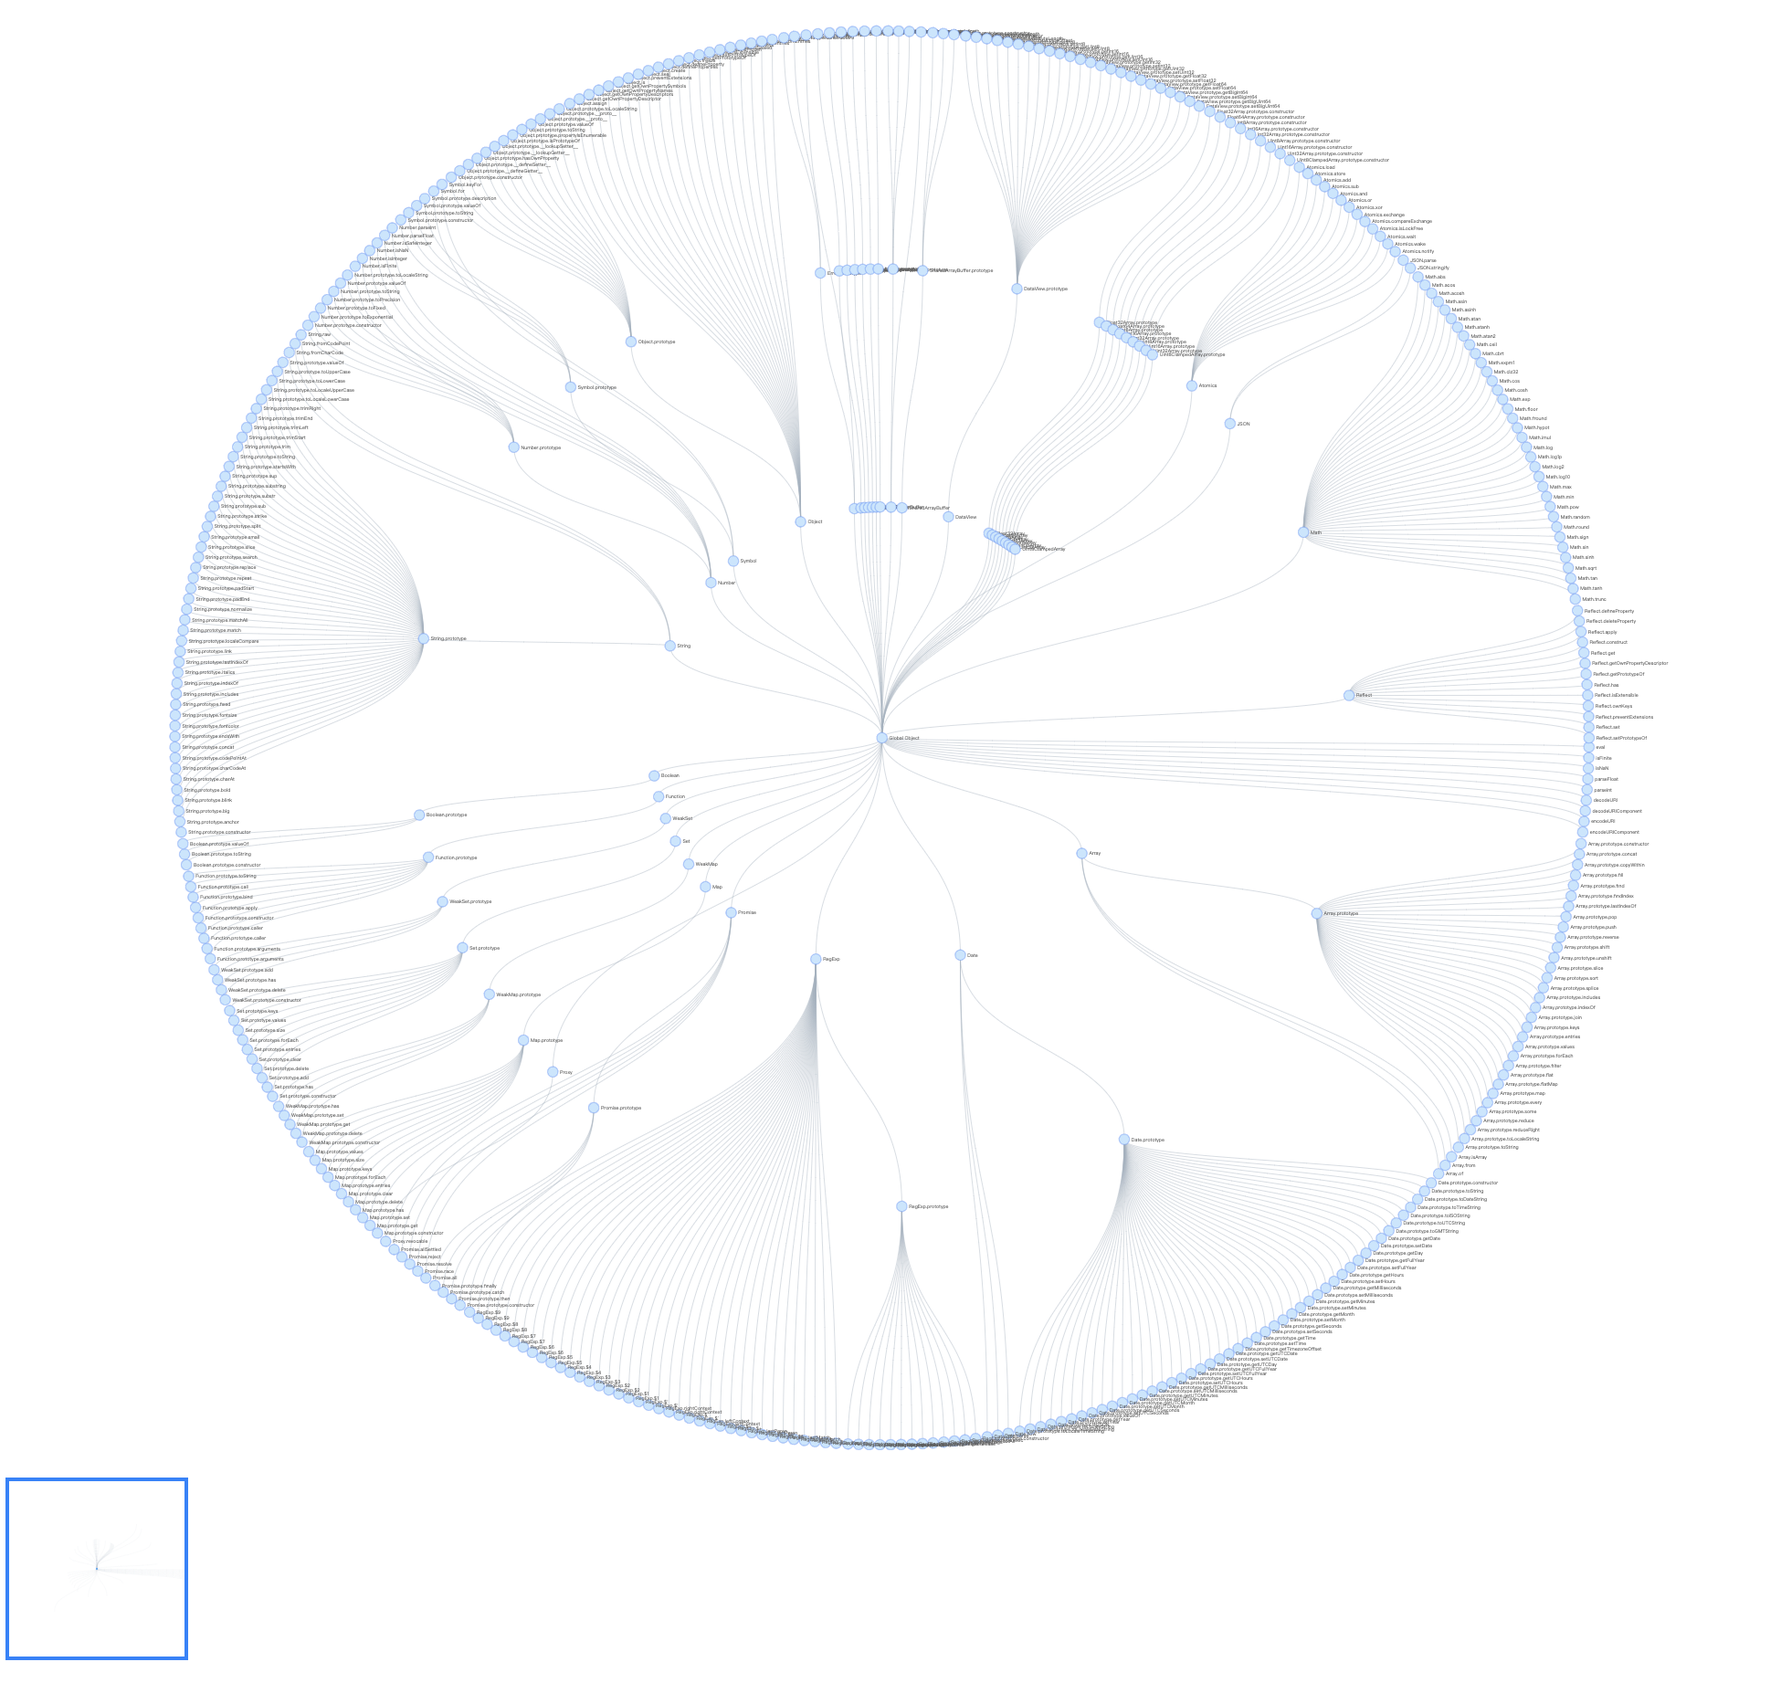
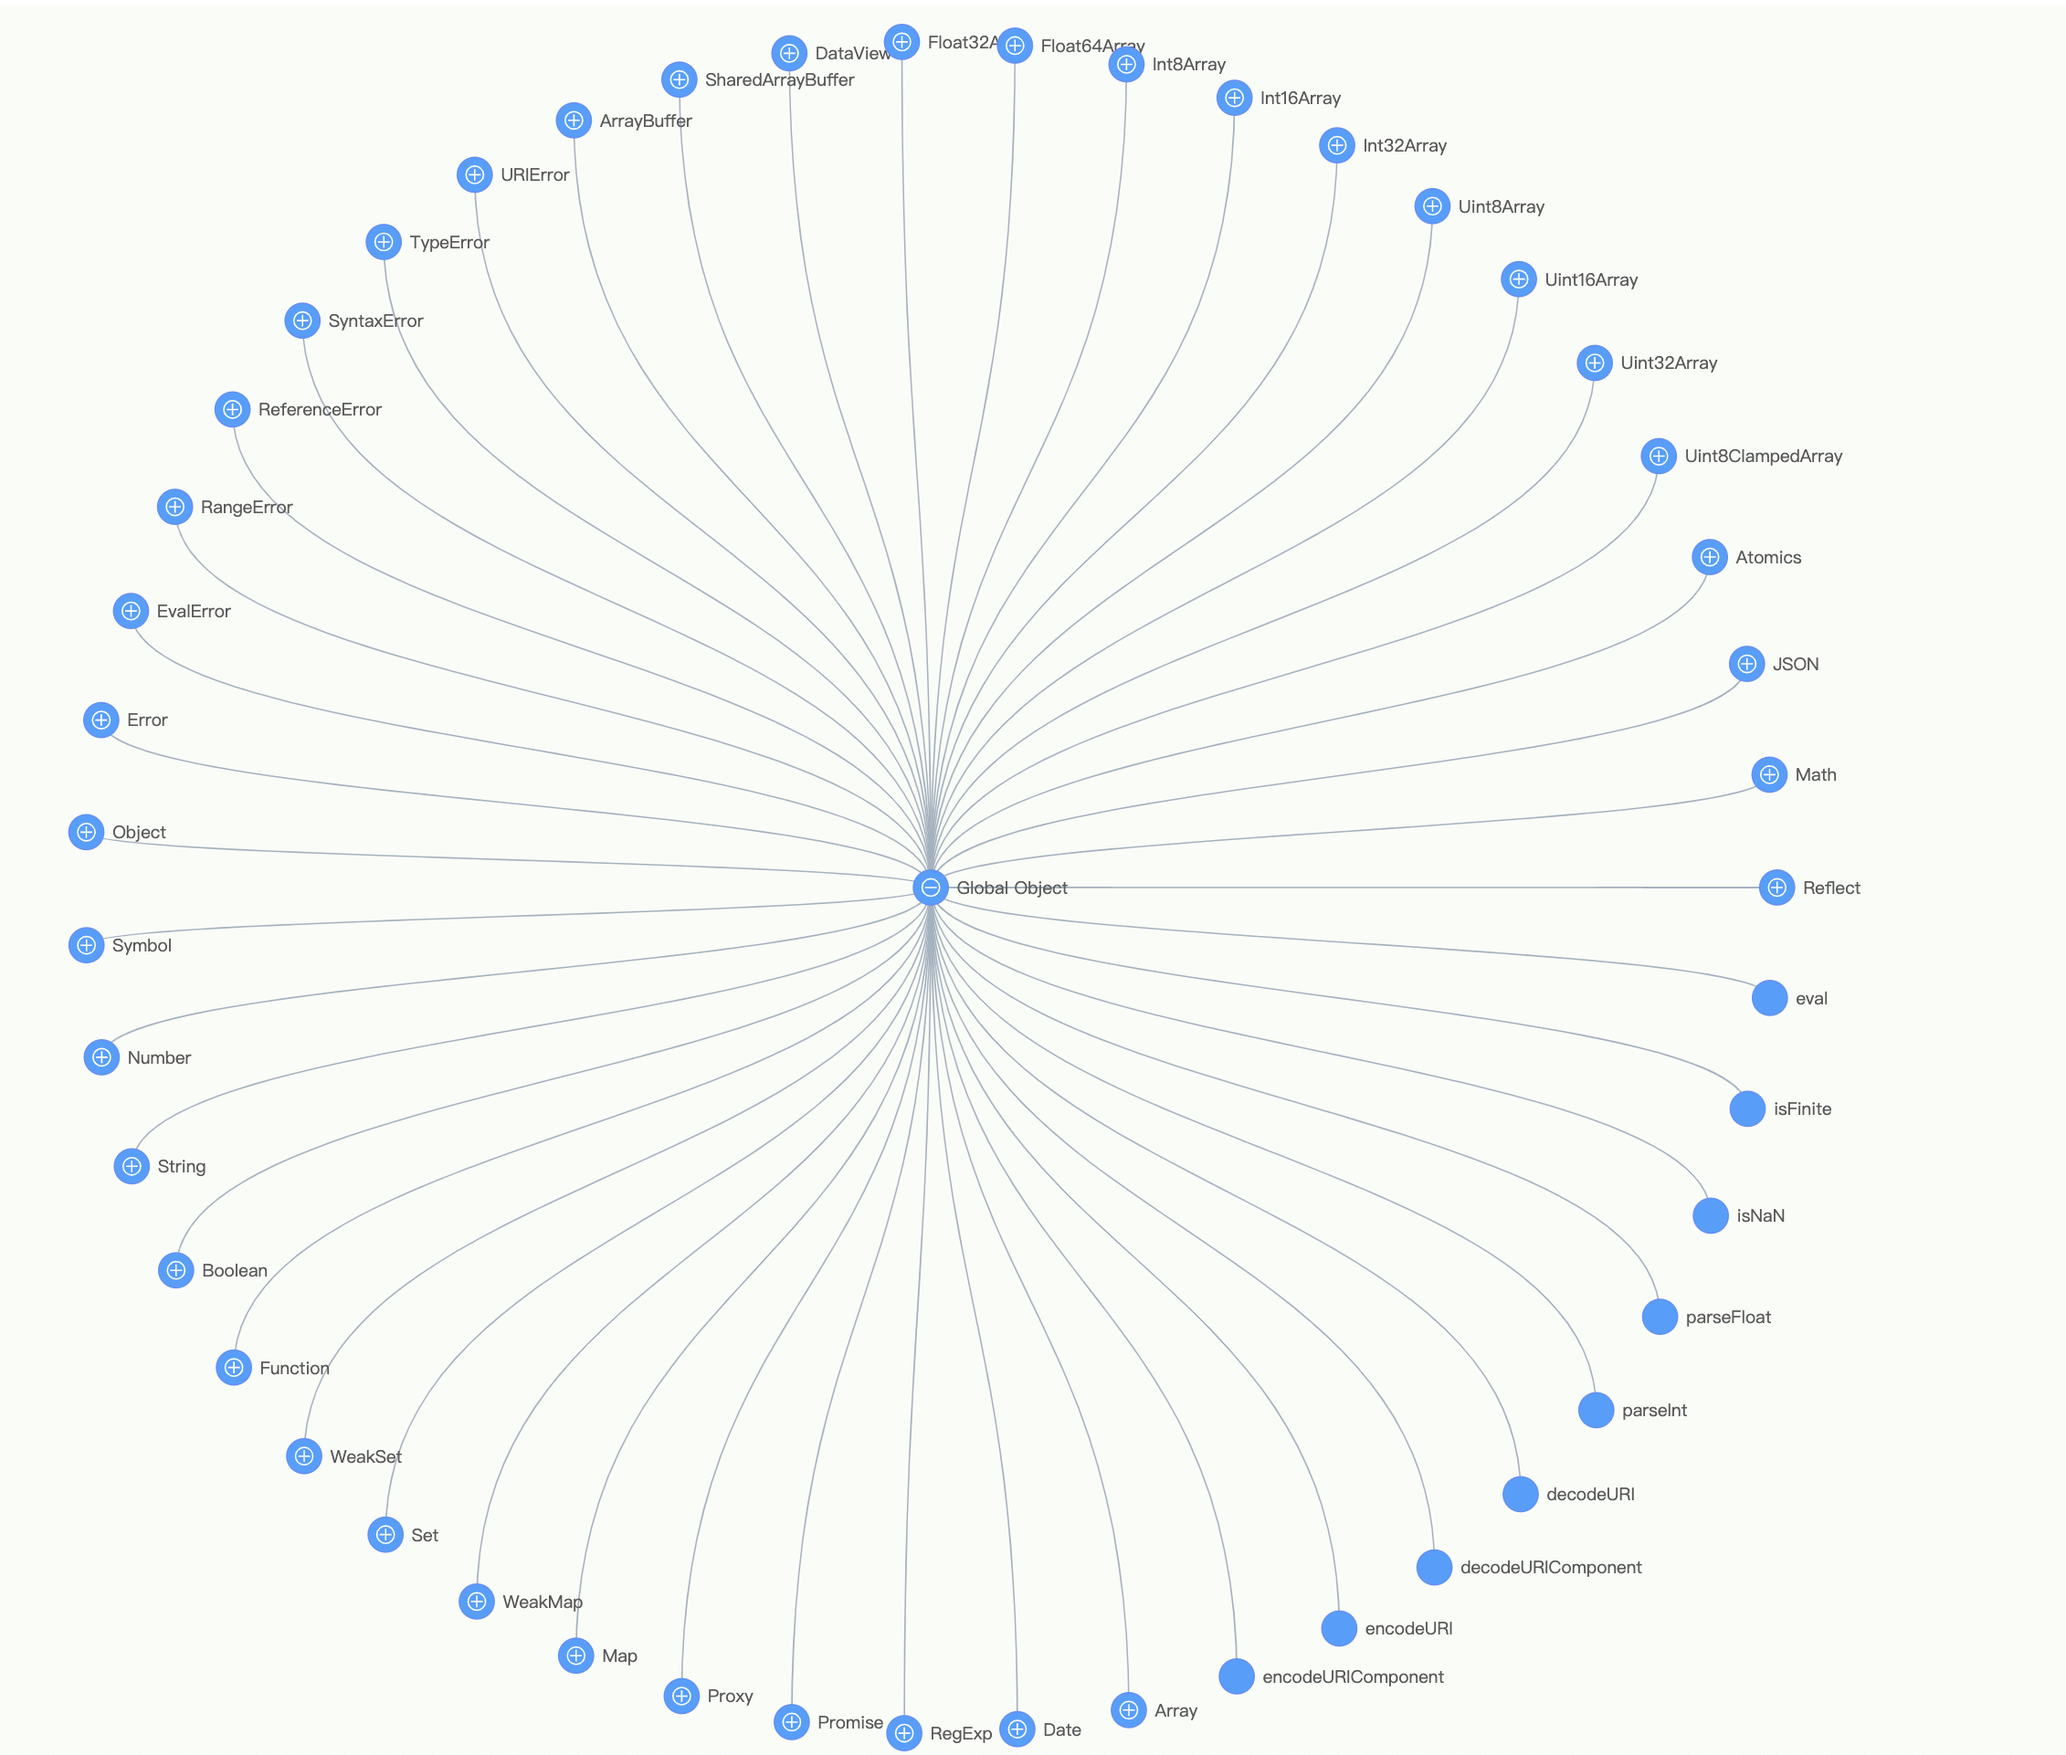
week05 01 finish

diff --git a/week05/realm.v1.html b/week05/realm.v1.html
@@ -1,11 +1,11 @@
 <!DOCTYPE html>
-<html lang="en">
+<html lang="en"  style="width: 100%; height: 100%;">
   <head>
     <meta charset="UTF-8" />
     <title>realm辐射树</title>
   </head>
-  <body>
-    <div id="mountNode"></div>
+  <body  style="width: 100%; height: 100%;">
+    <div id="container" style="width: 100%; height: 100%; background-color: rgba(240, 249, 235, 0.4);"></div>
     <!-- 引入 G6 -->
     <script src="https://gw.alipayobjects.com/os/antv/pkg/_antv.g6-3.3.1/dist/g6.min.js"></script>
 
@@ -90,21 +90,21 @@
               (property.value != null && typeof property.value === 'object' || typeof property.value === 'function')) {
               arr.push({
                 id: path.concat(p),
-                label: path.concat(p),
+                label: path.concat(p).join('.'),
                 children: _tree(path.concat(p), property.value)
               })
             }
             if(property.get) {
               arr.push({
                 id: path.concat(p),
-                label: path.concat(p),
+                label: path.concat(p).join('.'),
                 children: _tree(path.concat(p), property.get)
               })
             }
             if(property.set) {
               arr.push({
                 id: path.concat(p),
-                label: path.concat(p),
+                label: path.concat(p).join('.'),
                 children: _tree(path.concat(p), property.set)
               })
             }
@@ -118,17 +118,88 @@
 
     <script>
       // 树图部分
+
+      const COLLAPSE_ICON = function COLLAPSE_ICON(x, y, r) {
+        return [
+          ['M', x, y],
+          ['a', r, r, 0, 1, 0, r * 2, 0],
+          ['a', r, r, 0, 1, 0, -r * 2, 0],
+          ['M', x + 2, y],
+          ['L', x + 2 * r - 2, y],
+        ];
+      };
+      const EXPAND_ICON = function EXPAND_ICON(x, y, r) {
+        return [
+          ['M', x, y],
+          ['a', r, r, 0, 1, 0, r * 2, 0],
+          ['a', r, r, 0, 1, 0, -r * 2, 0],
+          ['M', x + 2, y],
+          ['L', x + 2 * r - 2, y],
+          ['M', x + r, y - r + 2],
+          ['L', x + r, y + r - 2],
+        ];
+      };
+      // 自定义节点
+      G6.registerNode(
+        'tree-node',
+        {
+          drawShape: function drawShape(cfg, group) {
+            // 节点的外框
+            const rect = group.addShape('circle', {
+              attrs: {
+                x: 0, // 居中
+                y: 0,
+                r: 12,
+                fill: '#409EFF',
+                stroke: '#5B8FF9'
+              },
+              name: 'rect-shape',
+            });
+            // 节点的展开收起图标
+            const hasChildren = cfg.children && cfg.children.length > 0;
+            if (hasChildren) {
+              group.addShape('marker', {
+                attrs: {
+                  x: -6,
+                  y: 0,
+                  r: 6,
+                  symbol: cfg.id[0] === 'Global Object' ? COLLAPSE_ICON : EXPAND_ICON,
+                  stroke: '#fff',
+                  lineWidth: 1,
+                },
+                name: 'collapse-icon',
+              });
+            }
+            rect.attr({
+              x: 0,
+              y: 0,
+              width: hasChildren ? 26 : 8,
+              height: 12,
+            });
+            return rect;
+          },
+        },
+        'single-node',
+      );
+      const width = document.getElementById('container').scrollWidth;
+      const height = document.getElementById('container').scrollHeight || 500;
       const graph = new G6.TreeGraph({ // 树图的所有配置
-        container: 'mountNode',
-        width: 1000,
-        height: 800,
+        container: 'container',
+        width,
+        height,
         linkCenter: true,
         modes: {
           default: [
             {
               type: 'collapse-expand',
               onChange: function onChange(item, collapsed) {
-                const data = item.get('model').data;
+                const data = item.get('model');
+                const icon = item.get('group').find(element => element.get('name') === 'collapse-icon');
+                if (collapsed) {
+                  icon.attr('symbol', EXPAND_ICON);
+                } else {
+                  icon.attr('symbol', COLLAPSE_ICON);
+                }
                 data.collapsed = collapsed;
                 return true;
               },
@@ -138,20 +209,25 @@
           ],
         },
         defaultNode: {
+          type: 'tree-node',
           size: 26,
           anchorPoints: [
             [0, 0.5],
             [1, 0.5],
           ],
-          style: {
-            fill: '#C6E5FF',
-            stroke: '#5B8FF9',
+          labelCfg: {
+            position: 'right',
+            offset: 5,
+            style: {
+              textAlign: 'start',
+            },
           }
         },
         defaultEdge: {
           type: 'cubic-vertical',
           style: {
-            stroke: '#A3B1BF',
+            stroke: '#C6E5FF',
+            lineWidth: 2,
           },
         },
         // layout使用的是辐射树
@@ -163,27 +239,16 @@
           radial: true
         },
       });
-
-      graph.node((node) => { // 对于节点的一些配置
-        let label = Array.isArray(node.label) ? node.label.join('.') : node.label
-        // let rotate = 2*Math.PI - Math.atan2(node.x, node.y) * 180 / Math.PI // 想根据当前位置坐标做旋转，失败了
-        // console.log(node.label, rotate)
-        return {
-          label,
-          labelCfg: {
-            position: 'right',
-            offset: 5,
-            style: {
-              // rotate: -rotate,
-              textAlign: 'start',
-            },
-          },
-        };
-      });
       let res = dataGen();
+      G6.Util.traverseTree(res, function(item) {
+        console.log(item)
+        if(item.children.length > 0 && item.id[0] !== 'Global Object') {
+          item.collapsed = true
+        }
+      });
       graph.data(res);
       graph.render();
-      graph.fitView(); // 有的节点文字会被挡住，暂时还没有解决
+      graph.fitView();
     </script>
   </body>
 </html>

diff --git a/week05/realm.v2.html b/week05/realm.v2.html
@@ -121,6 +121,7 @@
 
     <script>
       // 树图部分
+
       const COLLAPSE_ICON = function COLLAPSE_ICON(x, y, r) {
         return [
           ['M', x, y],
@@ -233,6 +234,7 @@
             lineWidth: 2,
           },
         },
+        // layout使用的是生态树
         layout: {
           type: 'compactBox',
           direction: 'LR',
